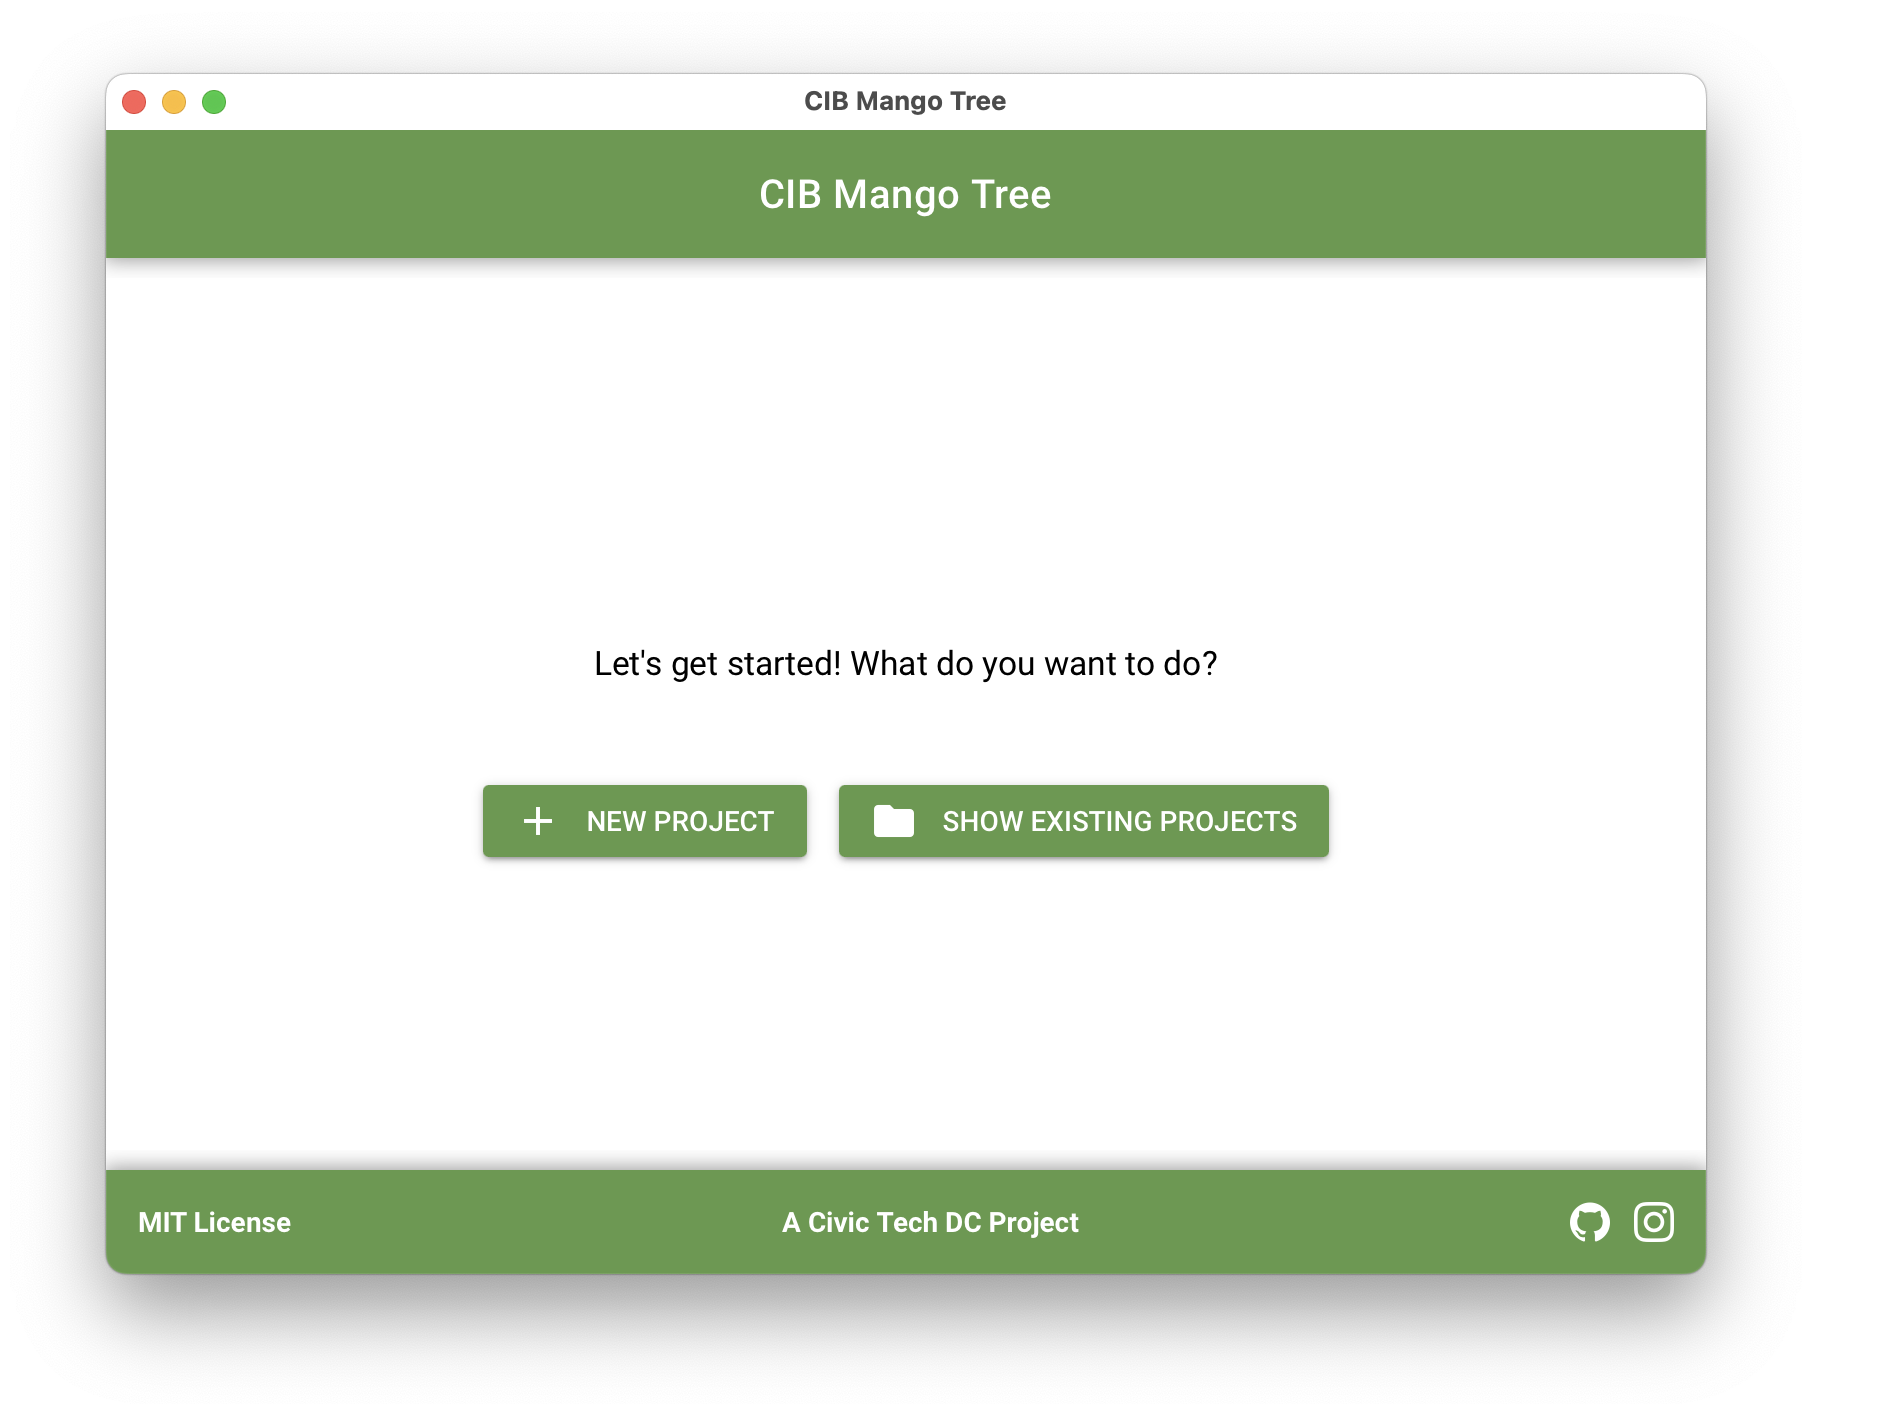
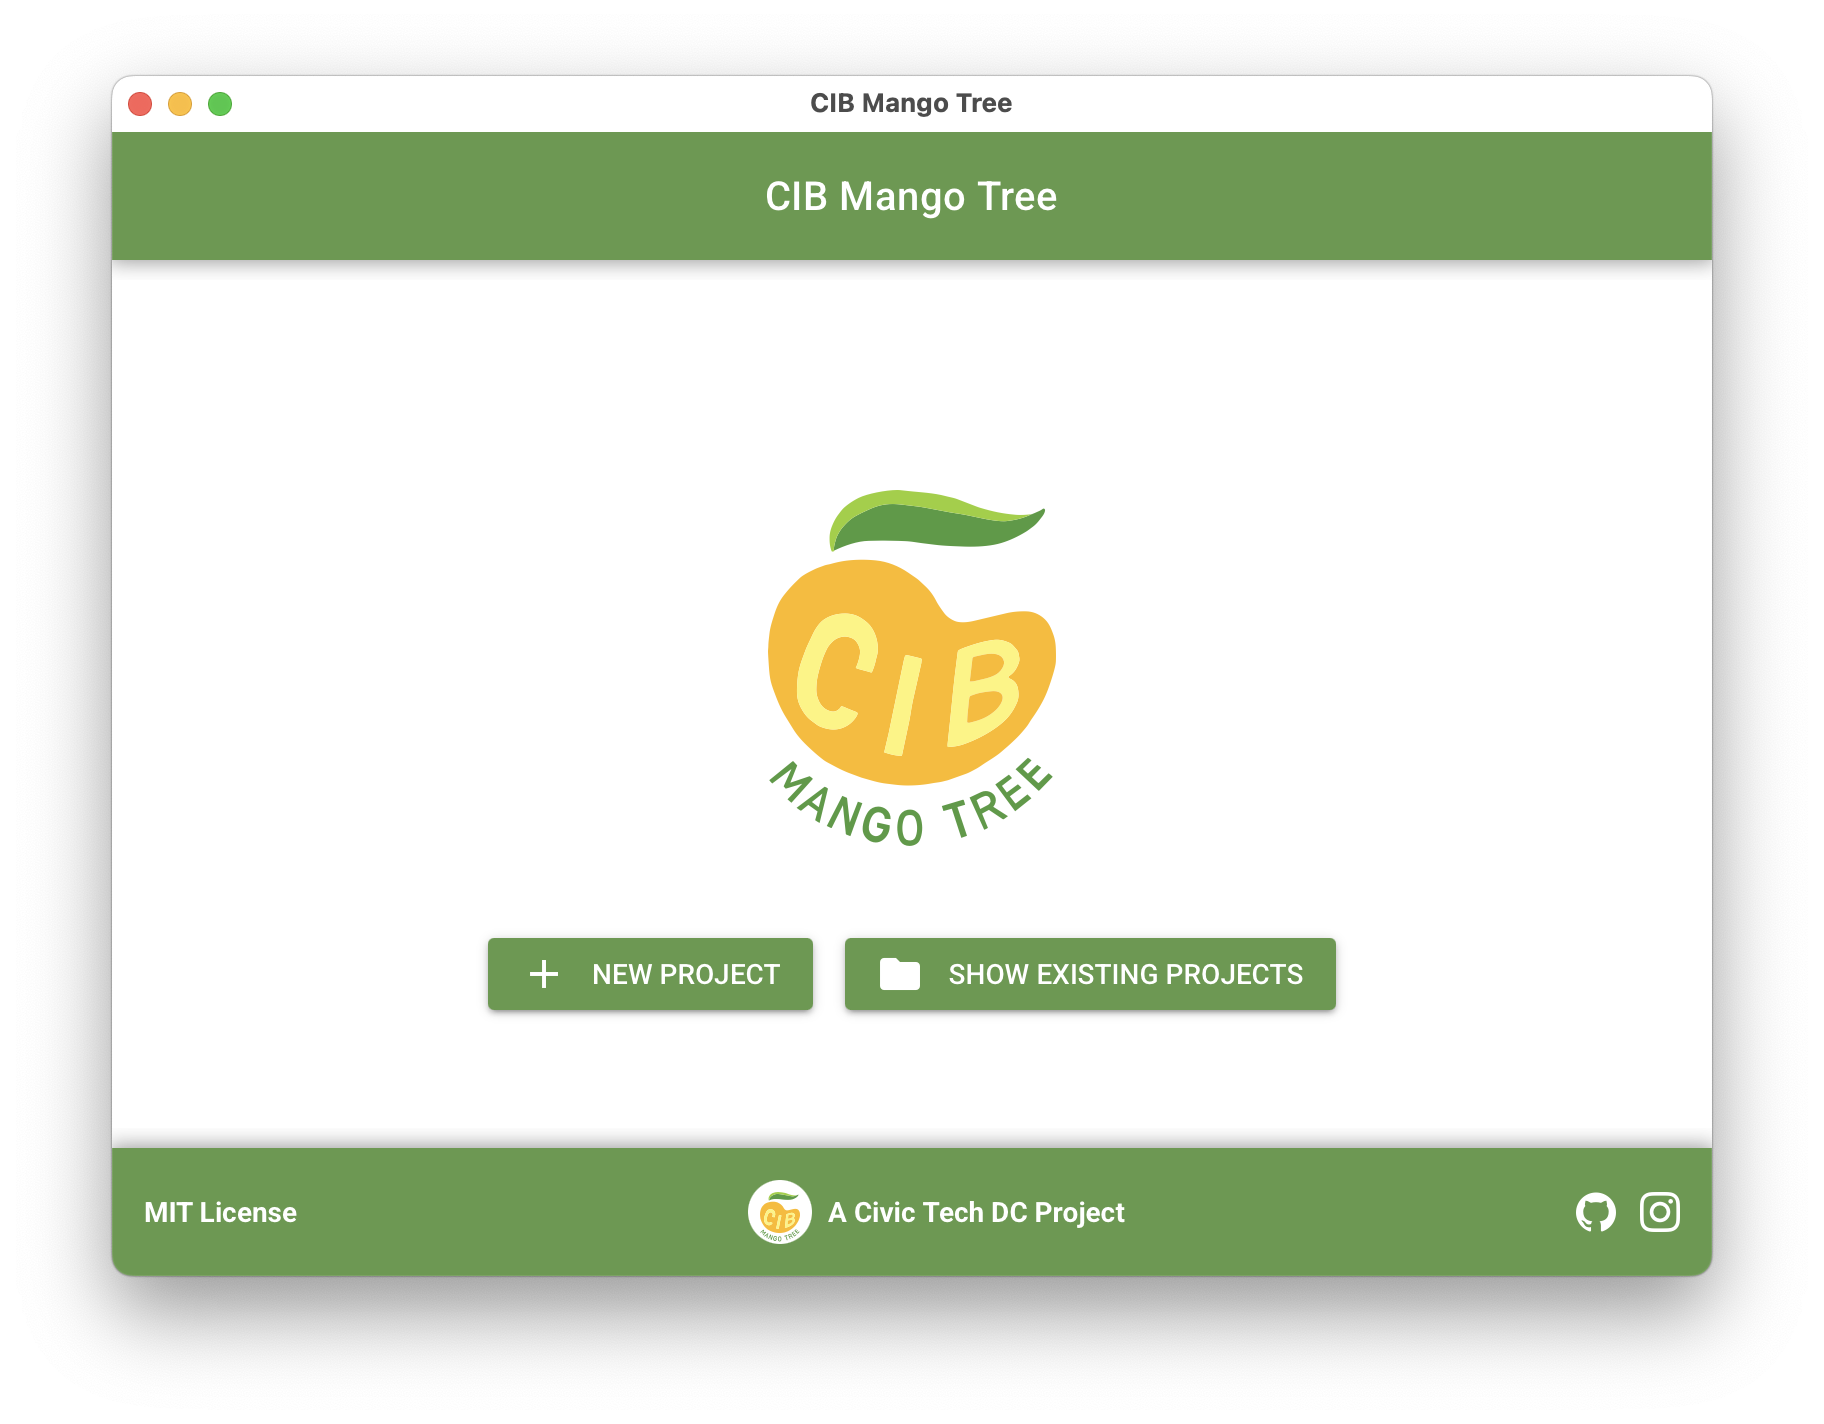
update welcome screen and fix readme.md

diff --git a/README.md b/README.md
@@ -1,6 +1,6 @@
 <h1 align="center">CIB Mango Tree</h1>
 
-<h3 align="center">A Standalone Desktop App for Detecting Coordinated Inauthentic Behavior Datasets of Online Activity</h3>
+<h3 align="center">An Open Source Toolkit for Detecting Coordinated Inauthentic Behavior in Datasets of Online Activity</h3>
 
 
 <p align="center">